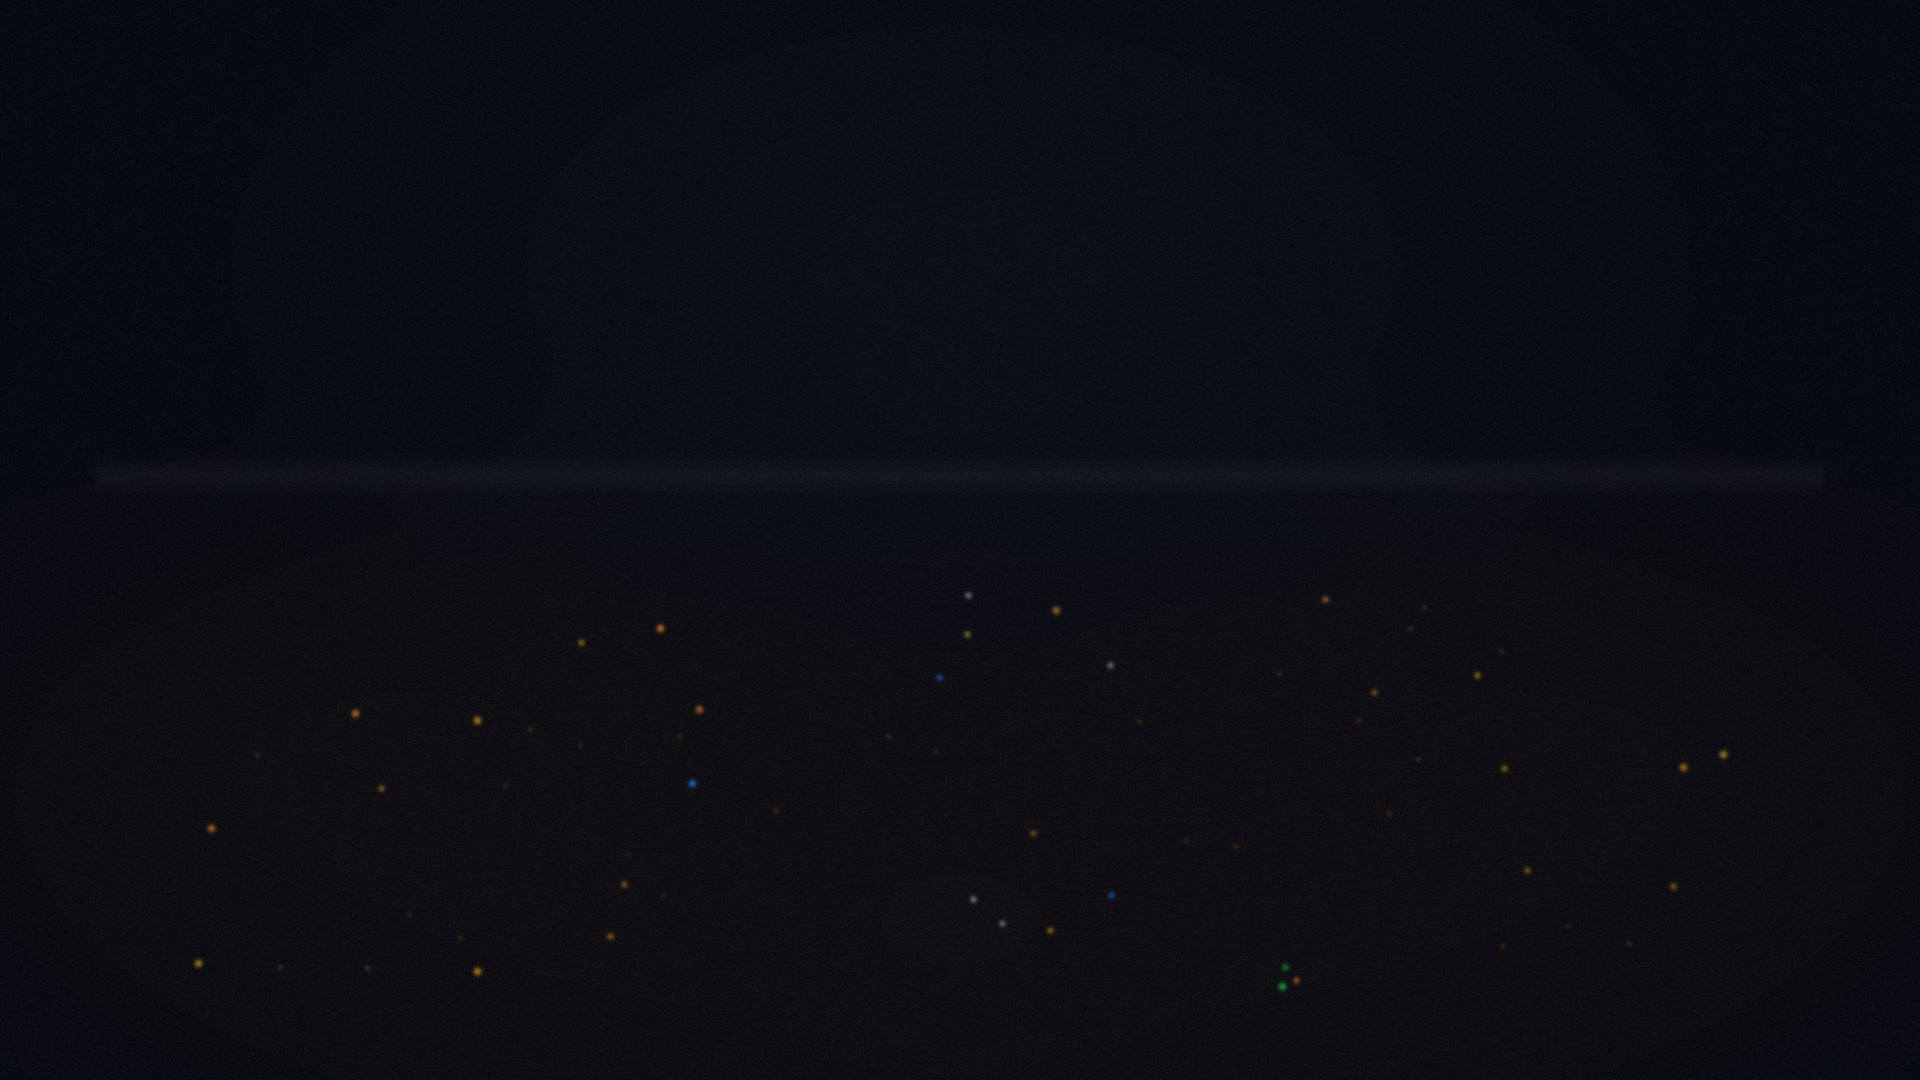
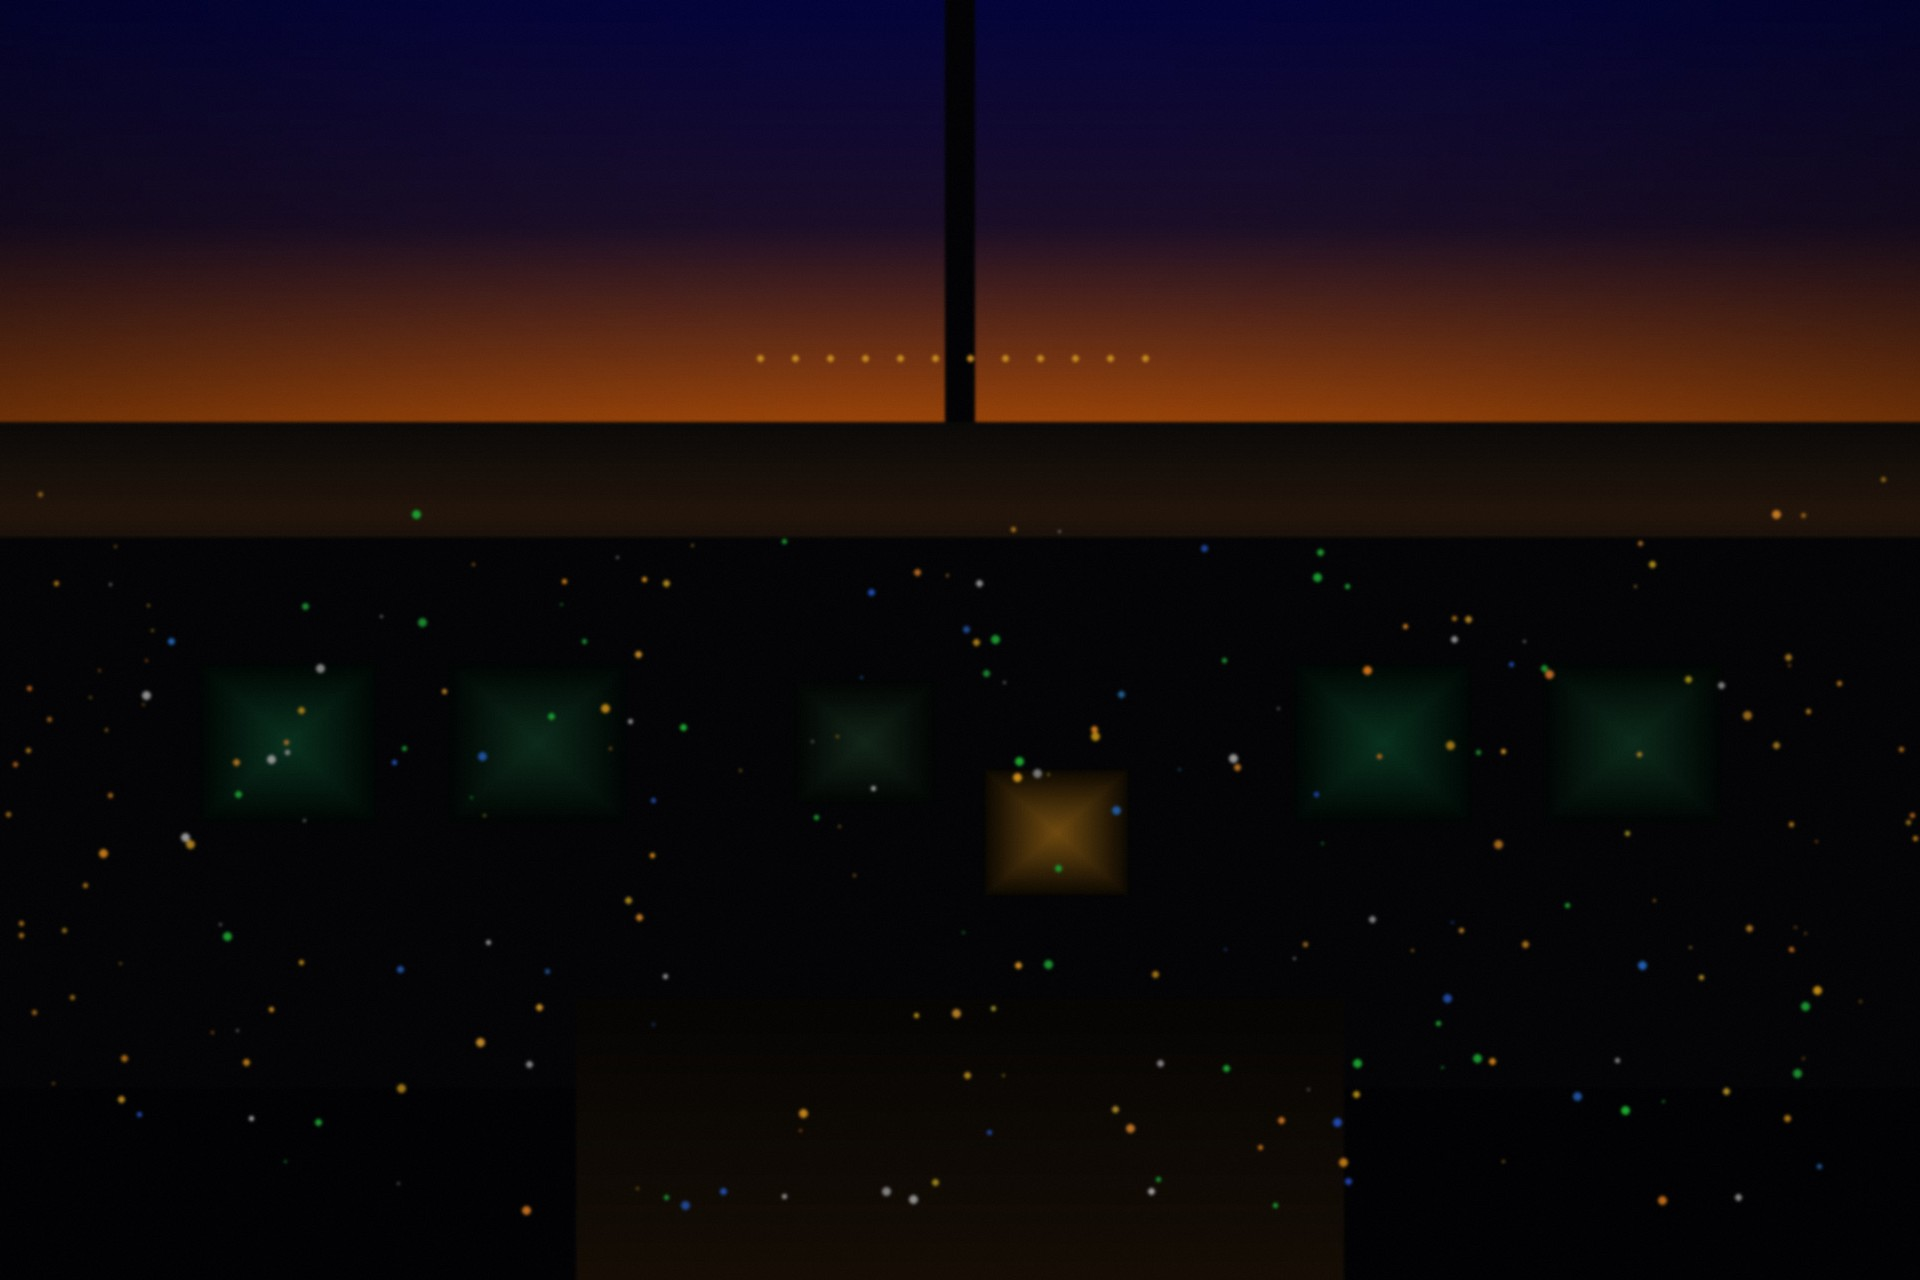
Fine-tune login page: auto-submit TOTP, touch feedback, rebrand to OOOI
- Auto-submit TOTP code when all 6 digits are entered (typed or pasted)
- Add active:scale-[0.97] touch feedback to all login page buttons
- Change authenticator app label from "SkyLog:{callsign}" to "OOOI:{callsign}"
- Update TOTP QR code issuer from "SkyLog" to "OOOI" in generateTOTPUri()
- Replace placeholder cockpit background with improved version

https://claude.ai/code/session_019puWNU2nhRcbMnQpGoKjCK

diff --git a/app/(auth)/login/page.tsx b/app/(auth)/login/page.tsx
@@ -1,6 +1,6 @@
 "use client"
 
-import { useState, useEffect } from "react"
+import { useState, useEffect, useRef } from "react"
 import { useRouter } from "next/navigation"
 import { Button } from "@/components/ui/button"
 import { Input } from "@/components/ui/input"
@@ -58,6 +58,22 @@ export default function LoginPage() {
   useEffect(() => {
     setMounted(true)
   }, [])
+
+  // Auto-submit TOTP when all 6 digits are entered (typed or pasted)
+  const autoSubmitRef = useRef(false)
+  useEffect(() => {
+    if (totpCode.length === 6 && !isLoading && !autoSubmitRef.current) {
+      autoSubmitRef.current = true
+      if (step === "recovery") {
+        recoveryLogin()
+      } else if (step === "register-verify") {
+        verifyTotpSetup()
+      }
+    }
+    if (totpCode.length < 6) {
+      autoSubmitRef.current = false
+    }
+  }, [totpCode, step, isLoading])
 
   // Check passkey support on mount
   useEffect(() => {
@@ -556,7 +572,7 @@ export default function LoginPage() {
 
                   {passkeySupported && (
                     <Button
-                      className="w-full h-12 text-base bg-white/15 hover:bg-white/25 text-white border border-white/20 backdrop-blur-sm transition-all"
+                      className="w-full h-12 text-base bg-white/15 hover:bg-white/25 text-white border border-white/20 backdrop-blur-sm transition-all active:scale-[0.97]"
                       onClick={attemptPasskeyLogin}
                       disabled={isLoading}
                     >
@@ -576,7 +592,7 @@ export default function LoginPage() {
 
                   <Button
                     variant="outline"
-                    className="w-full h-12 text-base bg-transparent text-white/80 border-white/20 hover:bg-white/10 hover:text-white transition-all"
+                    className="w-full h-12 text-base bg-transparent text-white/80 border-white/20 hover:bg-white/10 hover:text-white transition-all active:scale-[0.97]"
                     onClick={() => {
                       setError("")
                       setStep("recovery")
@@ -588,7 +604,7 @@ export default function LoginPage() {
 
                   <Button
                     variant="ghost"
-                    className="w-full text-white/50 hover:text-white hover:bg-white/10"
+                    className="w-full text-white/50 hover:text-white hover:bg-white/10 active:scale-[0.97] transition-transform"
                     onClick={() => {
                       setError("")
                       setStep("register-callsign")
@@ -636,7 +652,7 @@ export default function LoginPage() {
                   <Button
                     variant="ghost"
                     size="sm"
-                    className="w-fit -ml-2 mb-2 text-white/70 hover:text-white hover:bg-white/10"
+                    className="w-fit -ml-2 mb-2 text-white/70 hover:text-white hover:bg-white/10 active:scale-[0.97] transition-transform"
                     onClick={() => {
                       setStep("initial")
                       setError("")
@@ -667,7 +683,7 @@ export default function LoginPage() {
                       className="h-12 text-base bg-white/10 border-white/20 text-white placeholder:text-white/40 focus-visible:ring-white/30"
                     />
                     <p className="text-xs text-white/40">
-                      Check your authenticator app label: SkyLog:{"{callsign}"}
+                      Check your authenticator app label: OOOI:{"{callsign}"}
                     </p>
                   </div>
 
@@ -686,7 +702,7 @@ export default function LoginPage() {
                   </div>
 
                   <Button
-                    className="w-full h-12 bg-white/15 hover:bg-white/25 text-white border border-white/20 backdrop-blur-sm transition-all"
+                    className="w-full h-12 bg-white/15 hover:bg-white/25 text-white border border-white/20 backdrop-blur-sm transition-all active:scale-[0.97]"
                     onClick={recoveryLogin}
                     disabled={isLoading}
                   >
@@ -713,7 +729,7 @@ export default function LoginPage() {
                   <Button
                     variant="ghost"
                     size="sm"
-                    className="w-fit -ml-2 mb-2 text-white/70 hover:text-white hover:bg-white/10"
+                    className="w-fit -ml-2 mb-2 text-white/70 hover:text-white hover:bg-white/10 active:scale-[0.97] transition-transform"
                     onClick={() => {
                       setStep("initial")
                       setError("")
@@ -747,7 +763,7 @@ export default function LoginPage() {
                   </div>
 
                   <Button
-                    className="w-full h-12 bg-white/15 hover:bg-white/25 text-white border border-white/20 backdrop-blur-sm transition-all"
+                    className="w-full h-12 bg-white/15 hover:bg-white/25 text-white border border-white/20 backdrop-blur-sm transition-all active:scale-[0.97]"
                     onClick={startRegistration}
                     disabled={isLoading || !callsign.trim()}
                   >
@@ -814,7 +830,7 @@ export default function LoginPage() {
                       This enables fast login with Face ID, Touch ID, or device PIN
                     </p>
                     <Button
-                      className="w-full h-12 bg-white/15 hover:bg-white/25 text-white border border-white/20 backdrop-blur-sm transition-all"
+                      className="w-full h-12 bg-white/15 hover:bg-white/25 text-white border border-white/20 backdrop-blur-sm transition-all active:scale-[0.97]"
                       onClick={registerPasskey}
                       disabled={isLoading}
                     >
@@ -866,7 +882,7 @@ export default function LoginPage() {
                   </InputOTP>
 
                   <Button
-                    className="w-full h-12 bg-white/15 hover:bg-white/25 text-white border border-white/20 backdrop-blur-sm transition-all"
+                    className="w-full h-12 bg-white/15 hover:bg-white/25 text-white border border-white/20 backdrop-blur-sm transition-all active:scale-[0.97]"
                     onClick={verifyTotpSetup}
                     disabled={isLoading || totpCode.length !== 6}
                   >
@@ -934,7 +950,7 @@ export default function LoginPage() {
                     </div>
                   )}
                   <Button
-                    className="w-full h-12 bg-white/15 hover:bg-white/25 text-white border border-white/20 backdrop-blur-sm transition-all"
+                    className="w-full h-12 bg-white/15 hover:bg-white/25 text-white border border-white/20 backdrop-blur-sm transition-all active:scale-[0.97]"
                     onClick={registerAdditionalPasskey}
                     disabled={isLoading}
                   >
@@ -943,7 +959,7 @@ export default function LoginPage() {
                   </Button>
                   <Button
                     variant="ghost"
-                    className="w-full text-white/50 hover:text-white hover:bg-white/10"
+                    className="w-full text-white/50 hover:text-white hover:bg-white/10 active:scale-[0.97] transition-transform"
                     onClick={() => router.push("/")}
                     disabled={isLoading}
                   >

diff --git a/components/login/login-components.tsx b/components/login/login-components.tsx
@@ -45,7 +45,7 @@ export function StepBackButton({
     <Button
       variant="ghost"
       size="sm"
-      className="w-fit -ml-2 mb-2 text-white/70 hover:text-white hover:bg-white/10"
+      className="w-fit -ml-2 mb-2 text-white/70 hover:text-white hover:bg-white/10 active:scale-[0.97] transition-transform"
       onClick={onClick}
       disabled={disabled}
     >
@@ -150,7 +150,7 @@ export function SubmitButton({
 }) {
   return (
     <Button
-      className={`${className} bg-white/15 hover:bg-white/25 text-white border border-white/20 backdrop-blur-sm transition-all`}
+      className={`${className} bg-white/15 hover:bg-white/25 text-white border border-white/20 backdrop-blur-sm transition-all active:scale-[0.97]`}
       onClick={onClick}
       disabled={isLoading || disabled}
     >

diff --git a/lib/auth/server/totp.ts b/lib/auth/server/totp.ts
@@ -102,7 +102,7 @@ export async function verifyTOTP(secret: string, token: string, window = 1, time
 }
 
 // Generate otpauth:// URI for QR codes
-export function generateTOTPUri(secret: string, accountName: string, issuer = "SkyLog"): string {
+export function generateTOTPUri(secret: string, accountName: string, issuer = "OOOI"): string {
   const encodedIssuer = encodeURIComponent(issuer)
   const encodedAccount = encodeURIComponent(accountName)
   return `otpauth://totp/${encodedIssuer}:${encodedAccount}?secret=${secret}&issuer=${encodedIssuer}&algorithm=SHA1&digits=6&period=30`
